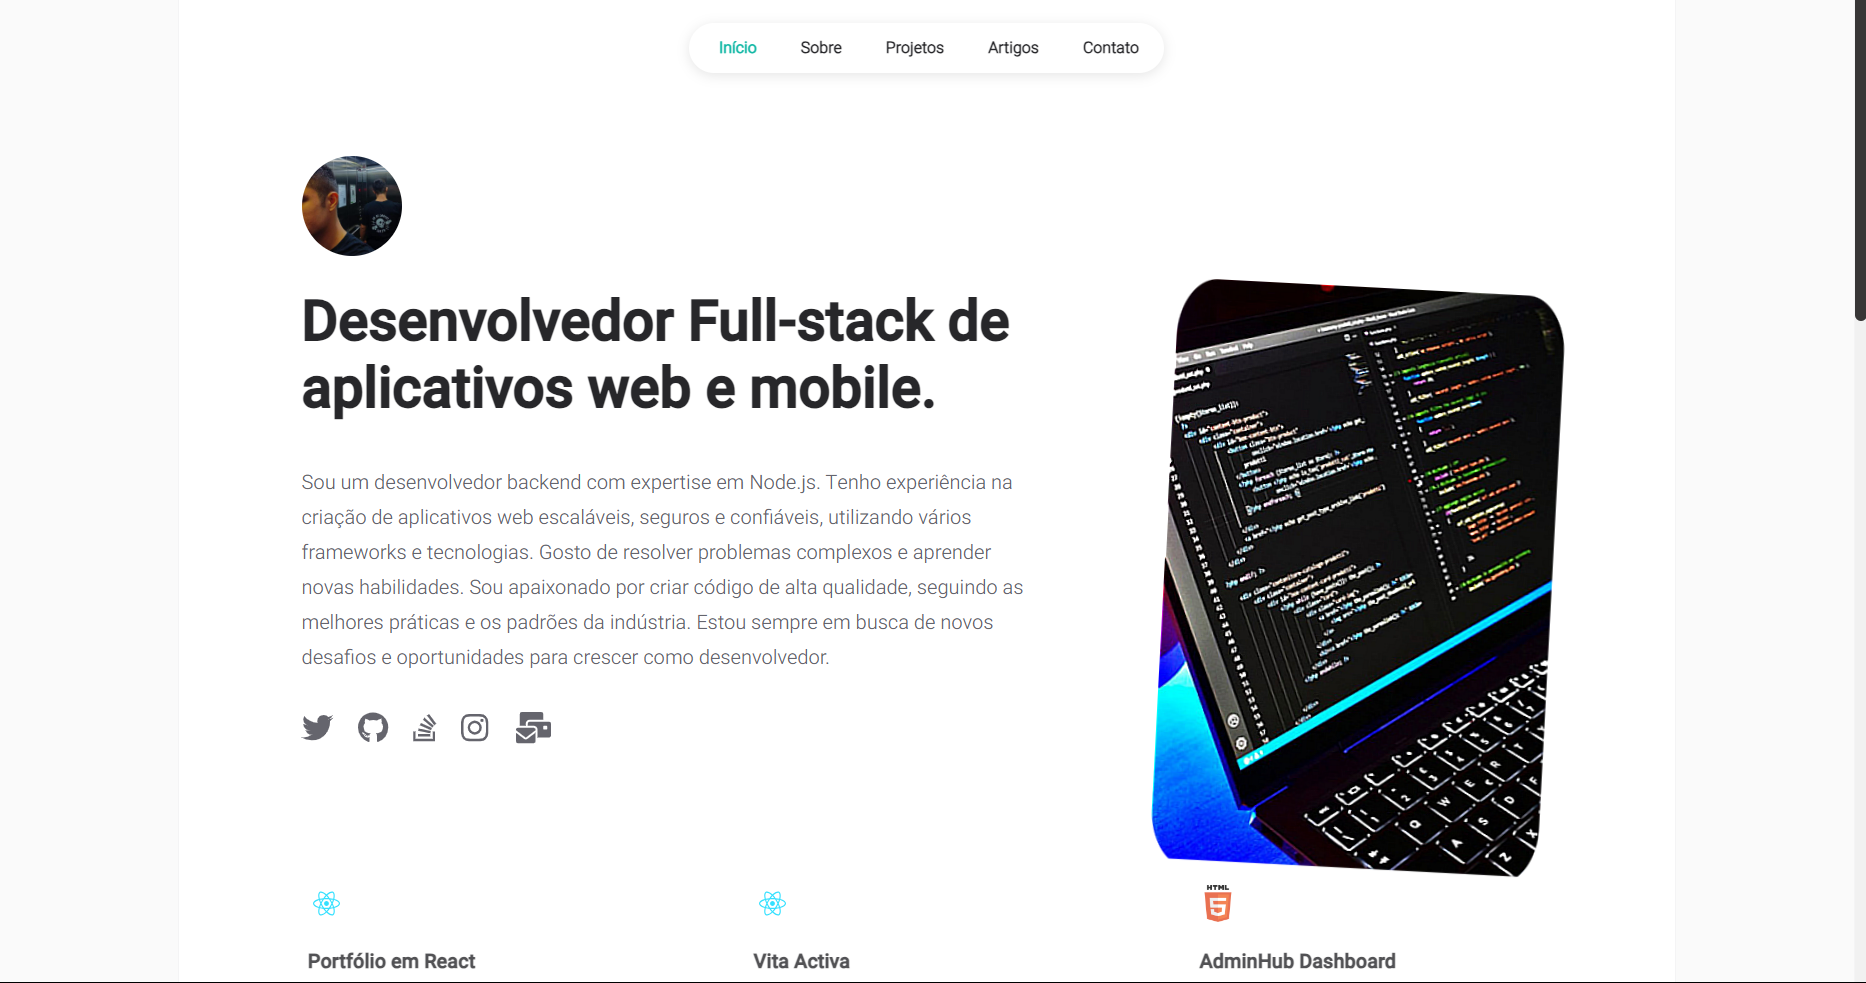
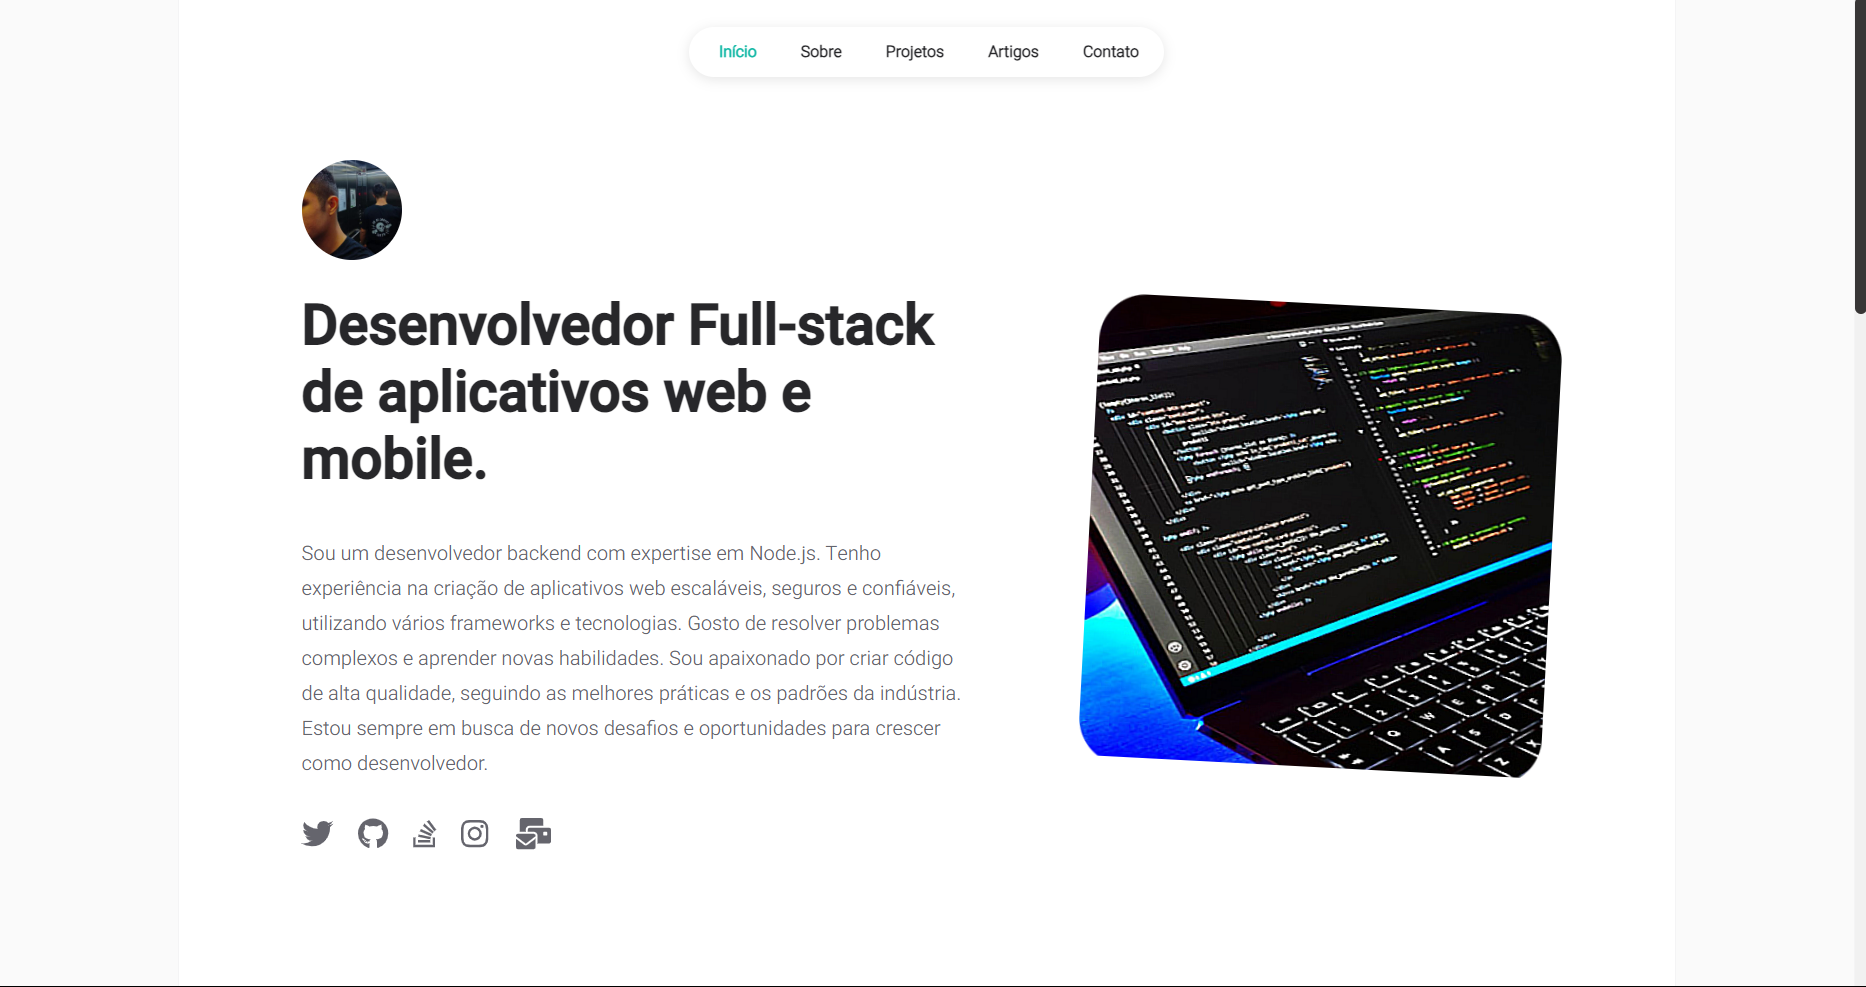
Portfolio React

diff --git a/src/pages/styles/homepage.css b/src/pages/styles/homepage.css
@@ -37,8 +37,8 @@
 }
 
 .homepage-image-container {
-	width: 310px;
-	height: 310px;
+	width: 370px;
+	height: 370px;
 }
 
 .homepage-image-wrapper {
